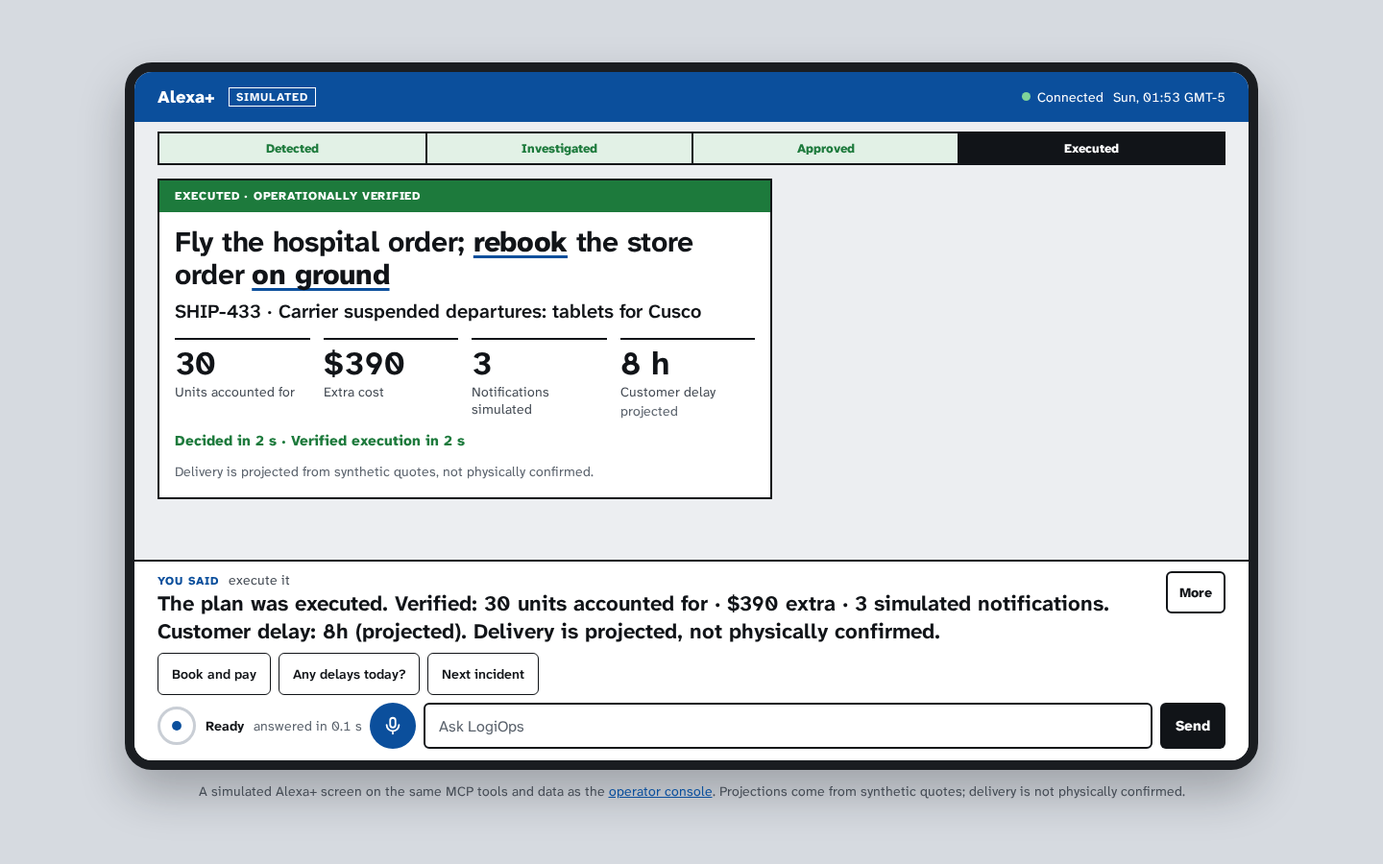
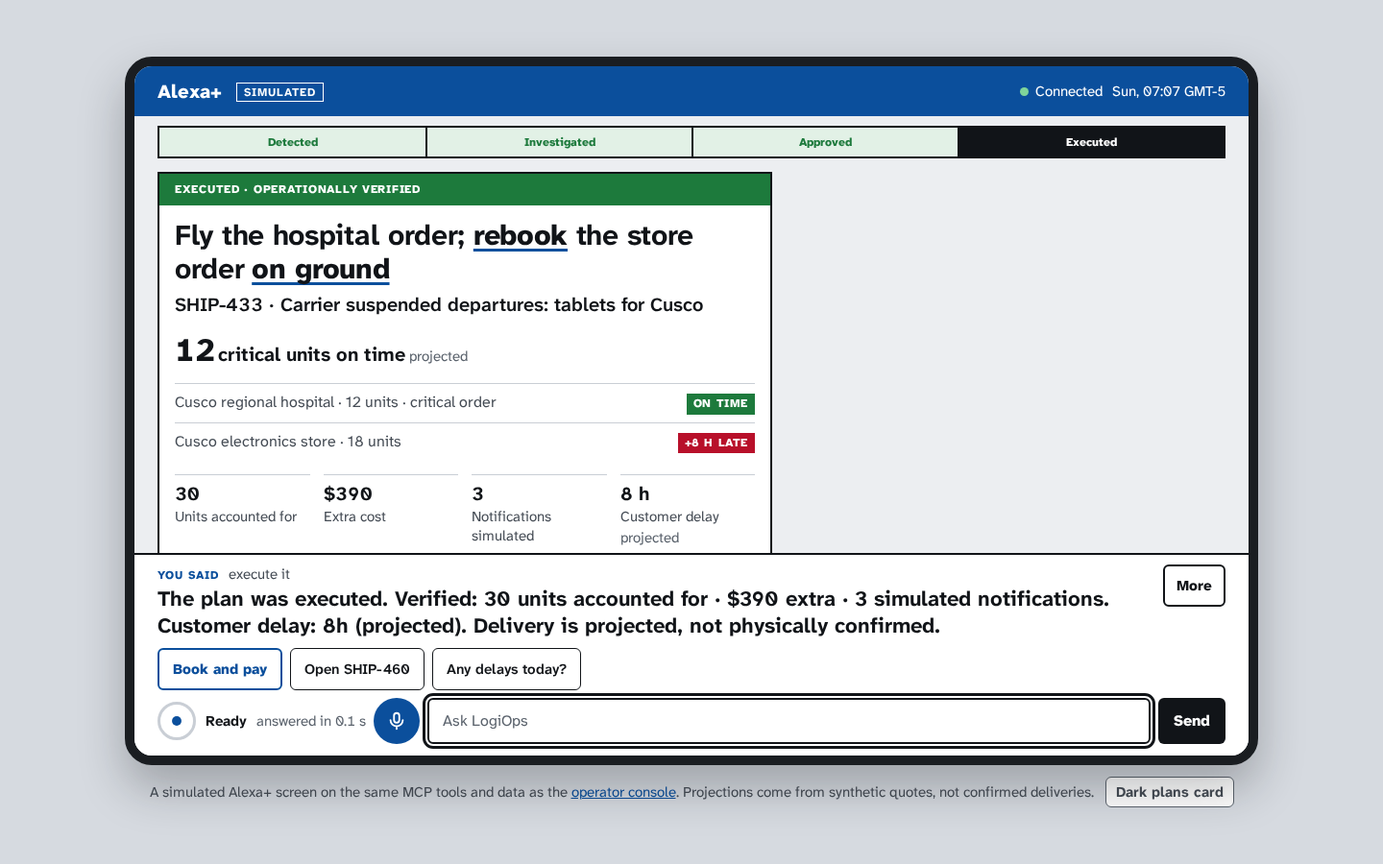
docs: refresh the screenshots and DESIGN.md after the critique fixes
- docs/img is regenerated with scripts/screenshots.py: the home queue
  under its heading, the result led by its outcome, the console's
  singular session labels and the stage-note toggle.
- DESIGN.md is refreshed from the shipped code:
  - the signal and scrim tokens;
  - the stat role and the console's own fixed ladder;
  - action chips and the second primary button (Execute approved plan);
  - the queue cards with their Executed tag;
  - the incident band that follows the decision;
  - the result and receipt cards;
  - the in-device conversation sheet with per-turn traces;
  - the MCP card's embedded font and look-alike-first list;
  - forced colours and the Echo Show type.

Changed region(s): [[0.0938, 0.0622, 0.9062, 0.9333], [0.4375, 0.4044, 0.5625, 0.5289]]

diff --git a/DESIGN.md b/DESIGN.md
@@ -23,6 +23,9 @@ colors:
   warn-ink: "#664400"
   warn-tint: "#FFF3D1"
   bezel: "#1A1D21"
+  signal-ok: "#7FD49A"
+  signal-late: "#FF9AA8"
+  scrim: "rgba(17, 20, 24, .5)"
   focus: "#111418"
 typography:
   display:
@@ -37,6 +40,12 @@ typography:
     fontWeight: 800
     lineHeight: 1.05
     letterSpacing: "-0.01em"
+    fontFeature: "tnum"
+  stat:
+    fontFamily: "Atkinson Hyperlegible Next, ui-sans-serif, system-ui, sans-serif"
+    fontSize: "20px"
+    fontWeight: 700
+    lineHeight: 1.15
     fontFeature: "tnum"
   title:
     fontFamily: "Atkinson Hyperlegible Next, ui-sans-serif, system-ui, sans-serif"
@@ -70,6 +79,27 @@ typography:
     fontWeight: 800
     lineHeight: 1.3
     letterSpacing: "0.05em"
+  console-heading:
+    fontFamily: "Atkinson Hyperlegible Next, ui-sans-serif, system-ui, sans-serif"
+    fontSize: "24px"
+    fontWeight: 700
+    lineHeight: 1.2
+  console-metric:
+    fontFamily: "Atkinson Hyperlegible Next, ui-sans-serif, system-ui, sans-serif"
+    fontSize: "21px"
+    fontWeight: 700
+    lineHeight: 1.2
+    fontFeature: "tnum"
+  console-body:
+    fontFamily: "Atkinson Hyperlegible Next, ui-sans-serif, system-ui, sans-serif"
+    fontSize: "15px"
+    fontWeight: 400
+    lineHeight: 1.55
+  console-meta:
+    fontFamily: "Atkinson Hyperlegible Next, ui-sans-serif, system-ui, sans-serif"
+    fontSize: "14px"
+    fontWeight: 400
+    lineHeight: 1.45
 rounded:
   label: "0px"
   control: "6px"
@@ -117,6 +147,15 @@ components:
     height: "44px"
   chip-hover:
     backgroundColor: "{colors.shell-tint}"
+  chip-action:
+    backgroundColor: "{colors.surface}"
+    textColor: "{colors.shell}"
+    typography: "{typography.meta}"
+    rounded: "{rounded.control}"
+    padding: "0 14px"
+    height: "44px"
+  chip-action-hover:
+    backgroundColor: "{colors.shell-tint}"
   input:
     backgroundColor: "{colors.surface}"
     textColor: "{colors.ink}"
@@ -158,18 +197,47 @@ components:
     typography: "{typography.tag}"
     rounded: "{rounded.label}"
     padding: "3px 7px"
+  tag-start-here:
+    backgroundColor: "{colors.shell}"
+    textColor: "{colors.shell-ink}"
+    typography: "{typography.tag}"
+    rounded: "{rounded.label}"
+    padding: "3px 7px"
+  tag-executed:
+    backgroundColor: "{colors.surface}"
+    textColor: "{colors.ok}"
+    typography: "{typography.tag}"
+    rounded: "{rounded.label}"
+    padding: "3px 7px"
   lifecycle-step-done:
     backgroundColor: "{colors.ok-tint}"
     textColor: "{colors.ok}"
+    typography: "{typography.tag}"
     rounded: "{rounded.label}"
   lifecycle-step-now:
     backgroundColor: "{colors.ink}"
     textColor: "{colors.surface}"
+    typography: "{typography.tag}"
     rounded: "{rounded.label}"
   shell-bar:
     backgroundColor: "{colors.shell}"
     textColor: "{colors.shell-ink}"
     height: "52px"
+  connection-dot-ok:
+    backgroundColor: "{colors.signal-ok}"
+    rounded: "{rounded.round}"
+    size: "9px"
+  connection-dot-late:
+    backgroundColor: "{colors.signal-late}"
+    rounded: "{rounded.round}"
+    size: "9px"
+  sheet-scrim:
+    backgroundColor: "{colors.scrim}"
+  sheet-panel:
+    backgroundColor: "{colors.surface}"
+    textColor: "{colors.ink}"
+    rounded: "{rounded.label}"
+    padding: "16px"
 ---
 
 # Design System: LogiOps AI
@@ -197,97 +265,106 @@ The world explicitly rejects the dark operations dashboard with a neon accent, a
 A cool, clinical neutral palette with one label-blue shell and three state colours that never decorate.
 
 ### Primary
-- **Label Blue** (shell): the device's shell bar, primary buttons, the mic, selected plans and cards, the start-here tag and agent-pick badge, the look-alike underline, links and the theme colour. It means "the product" or "act here", never a state.
-- **Deep Label Blue** (shell-deep): hover for primary buttons only.
+- **Label Blue** (shell): the device's shell bar, primary buttons (including "Execute approved plan"), the mic, the outline and text of action chips, selected plans, the start-here tag and agent-pick badge, the look-alike underline, links and the theme colour. It means "the product" or "act here", never a state.
+- **Deep Label Blue** (shell-deep): hover for primary buttons only, on the device, the console and the MCP App card's pick button.
 - **Blue Wash** (shell-tint): hover on incident cards and chips, the user's conversation turns, the current-plan line, the console boundary note.
 
 ### Secondary (state)
-- **Dispensed Green** (ok) with **Green Wash** (ok-tint): on time, executed, verified, done lifecycle steps, success messages.
+- **Dispensed Green** (ok) with **Green Wash** (ok-tint): on time, executed, verified, done lifecycle steps, the outlined Executed tag, success messages.
 - **Alert Red** (late) with **Red Wash** (late-tint): late, critical units at risk, approval invalidated, errors, the active mic.
-- **Caution Amber** (warn), **Amber Ink** (warn-ink) and **Amber Wash** (warn-tint): attention. Solid amber always carries ink text (the alerts bell, the critical tag, the warn band); amber washes always carry amber ink (the delayed-ETA fact, preference notes, the MCP App fallback note).
+- **Caution Amber** (warn), **Amber Ink** (warn-ink) and **Amber Wash** (warn-tint): attention. Solid amber always carries ink text (the alerts bell, the critical tag, the warn band, the connecting dot); amber washes always carry amber ink (the delayed-ETA fact, preference notes, the MCP App fallback note).
+- **Signal Green** (signal-ok) and **Signal Rose** (signal-late): the connected and failed states of the 9px connection dot on the shell bar, light enough to read on Label Blue. They exist only on the shell; everywhere on label stock the full-strength green and red carry state.
 
 ### Neutral
 - **Ink** (ink): text, rules, the current lifecycle step, the send button, focus rings.
 - **Graphite** (ink-2) and **Slate** (ink-3): secondary and tertiary text, labels inside facts, muted metadata.
-- **Hairline** (hairline): 1 px internal dividers between rows and facts, transcript turns, the idle orb ring.
-- **Label Stock** (surface): every card, panel, control and the talk dock.
+- **Hairline** (hairline): 1 px internal dividers between rows and facts, transcript turns, trace steps, the idle orb ring.
+- **Label Stock** (surface): every card, panel, control, the talk dock and the conversation sheet.
 - **Sunken** (sunken): secondary button hover, promise-bar track, code and table headers.
 - **Cool Ground** (ground): the page and device background.
 - **Desk Grey** (outer): the backdrop behind the Echo Show bezel on wide fine-pointer screens.
 - **Bezel** (bezel): the hardware frame of the simulated device, desktop only.
+- **Ink Scrim** (scrim): the half-ink veil behind the conversation sheet, inside the device.
 
 ### Named Rules
 **The Band Means State Rule.** Green, red and amber are state and nothing else. A full-width band at the top of a card names the card's condition in uppercase tag type; if nothing is wrong or done, there is no band.
 
-**The Self-Contained Card Rule.** The MCP App card renders in a sandboxed iframe and cannot load host files, so it carries its own copy of this palette (same hex values) plus a dark alternate that follows the host theme. Host-provided `--color-*`, `--font-*` and `--border-*` variables may override it; nothing else may.
+**The Self-Contained Card Rule.** The MCP App card renders in a sandboxed iframe and cannot load host files, so it carries its own copy of this palette (same hex values), its own copy of the size ladder as local variables, and its own Atkinson Hyperlegible Next, which the server inlines as a data: font that the sandbox policy allows; a dark alternate follows the host theme. Host-provided `--color-*`, `--font-*` and `--border-*` variables may override it; nothing else may.
 
 **Known exception: route mode colours.** The route diagram draws legs as a data series in mode colours outside the state palette: air #6A4BB5 (dotted), express #2F6FD6, delayed #A86F00 (dashed), clearance #8F6200, with local in ok and ground in shell. They are hard-coded in the device stylesheet and are marked for a future review; do not extend them to other components.
 
 ## Typography
 
-**Display Font:** Atkinson Hyperlegible Next (with ui-sans-serif, system-ui fallback), self-hosted variable woff2, weights 200 to 800, preloaded.
+**Display Font:** Atkinson Hyperlegible Next (with ui-sans-serif, system-ui fallback), self-hosted variable woff2, weights 200 to 800, preloaded. The MCP App card embeds the same file as a data: font.
 **Body Font:** the same family.
 
-**Character:** A single hyperlegible grotesque, chosen because it separates look-alike glyphs (0/O, 1/l/I). Weight does the hierarchy work: 800 for figures, tags and buttons, 700 for titles and the spoken line, 400 for running text. Font synthesis is off.
+**Character:** A single hyperlegible grotesque, chosen because it separates look-alike glyphs (0/O, 1/l/I). Weight does the hierarchy work: 800 for figures, tags and buttons, 700 for titles, stats and the spoken line, 400 for running text. Font synthesis is off.
 
 ### Hierarchy
 - **Display** (800, clamp(32px, 3.4vw, 44px), 1.1, -0.02em): the console page heading only.
-- **Figure** (800, clamp(28px, 2.6vw, 34px), 1.05, tabular): the one dominant number on a confirmation, receipt or result card. The MCP App card's pick cost uses the same role at 30px (26px compact).
-- **Title** (700, clamp(22px, 2.4vw, 30px), 1.15, -0.01em): the card heading on the device.
+- **Figure** (800, clamp(28px, 2.6vw, 34px), 1.05, tabular): the one dominant number on a confirmation, receipt or result card. The MCP App card's pick cost uses the same role, with tabular slashed-zero numerals.
+- **Title** (700, clamp(22px, 2.4vw, 30px), 1.15, -0.01em): the card heading on the device, the home heading ("4 open incidents") and the plans heading.
+- **Stat** (700, 20px, tabular): secondary numbers that sit below the one Figure: incident ids in queue cards (800), fact values, the session strip, plan figures, the result card's four execution numbers, and the conversation sheet heading.
 - **Spoken** (700, clamp(18px, 1.6vw, 22px), 1.3): the assistant's spoken line in the dock, clamped to two lines with a More button.
-- **Lead** (600, clamp(17px, 1.5vw, 20px), 1.4): the sentence under a card title.
-- **Body** (400, 16px, 1.5; 15px from 768px): incident text, rows, plan names, transcript.
-- **Meta** (400, 15px; 14px from 768px): secondary lines, fact labels, legends, chips.
-- **Tag** (800, 12px, 0.05 to 0.08em, uppercase): state bands, outcome chips, incident tags, badges, the "simulated" stamp, speaker names.
+- **Lead** (600, clamp(17px, 1.5vw, 20px), 1.4): the sentence under a card title, queue-card text from 768px, the result figure's label.
+- **Body** (400, 16px, 1.5): incident text, rows, plan names, transcript, the home greeting.
+- **Meta** (400, 15px): secondary lines, fact labels, legends, chips, trace summaries.
+- **Tag** (800, 12px, 0.05 to 0.08em, uppercase): state bands, outcome chips, incident tags, badges, the "simulated" stamp, speaker names. The lifecycle strip uses the tag size in sentence case.
 
-The console uses the same family and weights at fixed desk sizes (24px panel headings, 21px metrics, 15px body, 14px meta, 12px tags) because it keeps its own layout.
+Between 768px and the Echo Show, body steps down to 15px and meta to 14px for denser desk reading; on the Echo Show (1024px and a fine pointer) they return to 16px and 15px, and phones keep them there too. The MCP App card mirrors the ladder locally: 15px body and 14px meta by default, 16px and 15px in its compact mode.
+
+The console uses the same family and weights at its own fixed desk sizes, recorded as the console roles: 24px panel headings, 21px metrics, 15px body, 14px meta, and the shared 12px tag. They are the console's ladder, not nudges of the device ladder.
 
 ### Named Rules
-**The Ladder Rule.** Device sizes come from the eight ladder tokens. A new size needs a new role, not a nudge.
+**The Ladder Rule.** Device sizes come from the eight ladder tokens (tag, meta, body, lead, stat, title, figure, spoken). A new size needs a new role, not a nudge.
 
 **The Tabular Column Rule.** Every compared figure (costs, ETAs, units, counts, receipt lines) uses tabular numerals and sits right-aligned in its own column; on the 768px facts row it switches to left-aligned columns.
 
 ## Layout
 
-Mobile first. On a phone the device fills the viewport as a column: a 52px shell bar (safe-area aware), a four-step lifecycle strip with a 10px top margin, a scrolling card surface, and a fixed talk dock with a 2px ink top rule holding the heard line, the two-line spoken line, one horizontally scrolling row of chips, and the orb, 48px mic, field and send. Side gutters are 16px plus safe-area insets. One card shows at a time.
+Mobile first. On a phone the device fills the viewport as a column: a 52px shell bar (safe-area aware), a four-step lifecycle strip with a 10px top margin, a scrolling card surface, and a fixed talk dock with a 2px ink top rule holding the heard line, the two-line spoken line, one horizontally scrolling row of chips, and the orb, 48px mic, field and send. Side gutters are 16px plus safe-area insets. One card shows at a time. Under 400px the lifecycle cells size to their content instead of splitting the width equally.
 
-From 768px the gutter becomes 24px, meta and body step down a pixel (more room, denser desk reading), facts sit in a three-column row, the incident sets its promise bars beside a route-map label column of up to 380px, the plan row becomes name, figures, select, and result figures go to four columns. From 1024px with a fine pointer the device becomes a 16:10 Echo Show at up to 1180px wide inside a 10px bezel with 28px corners, centred on Desk Grey with a note underneath. Short landscape screens hide the lifecycle and heard line and clamp the spoken line to one.
+Home is a stacked queue: a Title heading ("4 open incidents") and a one-line greeting, then an ordered list of incident cards, one column on phones 10px apart and two columns from 768px 12px apart, then the session strip of outcome stats (two columns on phones, wrapping 130px tiles from 768px).
 
-The inbox is a stacked queue under a one-line heading ("4 open incidents"): one column of incident cards on phones, 10px apart, and two columns from 768px, 12px apart, with the briefing's pick first and executed incidents last. The console is a 1500px shell with 32px padding (16px under 650px): a four-column inbox, a summary strip, and a 1.65 : 0.85 workbench that stacks under 1050px.
+From 768px the gutter becomes 24px, facts sit in a three-column row, the incident sets its promise bars beside a route-map label column of up to 380px, the plan row becomes name, figures, select, and the result card's four stats go to four columns. From 1024px with a fine pointer the device becomes a 16:10 Echo Show at up to 1180px wide inside a 10px bezel with 28px corners, centred on Desk Grey with a stage note underneath that carries the console link and the "Dark plans card" developer toggle. Short landscape screens hide the lifecycle and heard line and clamp the spoken line to one.
+
+The console is a 1500px shell with 32px padding (16px under 650px): a four-column inbox (two under 1050px, one under 650px), a summary strip, and a 1.65 : 0.85 workbench that stacks under 1050px.
 
 Spacing is a loose 2px-step rhythm around 8, 12, 14 and 16px inside cards and 18 to 24px between panels. Touch targets are 44px minimum, 48px for the dock's primary controls.
 
 ## Elevation & Depth
 
-The screen is flat. Depth is conveyed by tone (label stock on cool ground), 2px ink rules around every label, and the shell band; nothing floats. The only overlay is the conversation sheet, which rises from the bottom over a 50% ink scrim and is flat itself.
+The screen is flat. Depth is conveyed by tone (label stock on cool ground), 2px ink rules around every label, and the shell band; nothing floats. The only overlay is the conversation sheet, which lives inside the device (within the bezel on desktop) over the Ink Scrim and is flat itself; while it is open the rest of the device and the stage note are inert.
 
 ### Shadow Vocabulary
 - **Hardware bezel** (`box-shadow: 0 24px 48px rgba(17, 20, 24, .28)`): the Echo Show frame on wide fine-pointer screens only. It belongs to the device hardware, not to the interface.
-- **Selection ring** (`box-shadow: inset 0 0 0 2px var(--shell)`): thickens a selected plan's or pressed incident card's border to 4px of blue. It is a border, not elevation.
+- **Selection ring** (`box-shadow: inset 0 0 0 2px var(--shell)`): thickens a selected plan's or pressed console incident card's border to 4px of blue. It is a border, not elevation.
 
 ### Named Rules
 **The Flat Screen Rule.** Nothing inside the device screen, the console or the MCP App card casts a shadow, carries a gradient or glows. The bezel is the hardware exception.
 
 ## Shapes
 
-Two corner families and one circle. Labels (cards, panels, bands, facts, lifecycle, transcript turns, tags, chips that report outcomes) are square (0). Controls a finger presses (buttons, input fields, suggestion chips, the alerts bell, file buttons) take a gentle 6px. Circles are reserved for the mic, the orb and the connection dot. Structural edges are 2px ink; internal dividers between rows are 1px hairline; outlined tags and the "simulated" stamp use 1.5px. Empty states and the console's developer panel use a 2px dashed hairline.
+Two corner families and one circle. Labels (cards, panels, bands, facts, lifecycle, transcript turns, trace steps, the sheet, tags, chips that report outcomes) are square (0). Controls a finger presses (buttons, input fields, suggestion and action chips, the alerts bell, the account button, file buttons) take a gentle 6px. Circles are reserved for the mic, the orb and the connection dot. Structural edges are 2px ink; internal dividers between rows are 1px hairline; outlined tags and the "simulated" stamp use 1.5px; action chips use a 2px Label Blue outline. Empty states and the console's developer panel use a 2px dashed hairline.
 
 ## Components
 
 ### Buttons
 Firm, square-shouldered, heavy-weight text.
 - **Shape:** gently rounded (6px), 2px border, 48px tall on the device (44px on the console and inside the MCP App card unless compact).
-- **Primary:** Label Blue fill, white 800-weight text, 18px side padding. One per card: the "yes".
-- **Hover / Focus:** primary deepens to Deep Label Blue; secondary and plan Select take the Sunken fill. Focus is a 3px ink outline at 2px offset (white on the shell bar). Disabled drops to 45% opacity.
-- **Secondary:** label stock with a 2px ink border; used for No, Close, Select and console actions.
+- **Primary:** Label Blue fill, white 800-weight text, 18px side padding. One per card: the "yes", or "Execute approved plan" in the plans header and on a receipt when the plan is approved but has not run.
+- **Hover / Focus:** primary deepens to Deep Label Blue; secondary and plan Select take the Sunken fill. Focus is a 3px ink outline at 2px offset (white on the shell bar, inset on the scrolling surface). Disabled drops to 45% opacity.
+- **Secondary:** label stock with a 2px ink border; used for No, Close, Select, More, "Open printable receipt", "See N more plans" and console actions.
 - **Send:** solid ink with white text, sitting at the end of the dock.
 - **Mic:** 48px Label Blue circle with a stroked SVG microphone; turns Alert Red while listening.
 - **Quiet:** text-only Graphite, underline on hover, for secondary console actions.
+- **Stage toggle:** the "Dark plans card" developer switch in the desktop stage note, 32px, 1.5px slate outline, filled ink when pressed.
 
 ### Chips
-- **Suggestion chips:** label stock, 1.5px ink border, 6px radius, 44px tall, Meta type; one scrolling row in the dock, wrapping on the console. Hover shifts the border to Label Blue over Blue Wash.
-- **Outcome chips:** square, solid green or red, white uppercase tag type; one per order row ("on time", "+18 h").
-- **Incident tags:** square uppercase tags: start here (blue), at risk (red), critical (amber with ink), state (1.5px slate outline).
+- **Question chips:** label stock, 1.5px ink border, 6px radius, 44px tall, Meta type at 600; one scrolling row in the dock, wrapping on the console. Hover shifts the border to Label Blue over Blue Wash.
+- **Action chips:** the chips that act rather than ask (approve the recommended plan, approve the new pick, book and pay) take a 2px Label Blue outline and Label Blue 800 text, so a tap that changes state never looks like a question.
+- **Outcome chips:** square, solid green or red, white uppercase tag type; one per order row ("on time", "+8 h late").
+- **Incident tags:** square uppercase tags, at most two per card: start here (blue), critical units at risk (red), critical order (amber with ink), and the investigated or approved state as words in a 1.5px slate outline. An executed incident shows only the Executed tag, a 1.5px green outline with green text, which outranks start here.
 - **Badges:** agent pick and zero delay in blue; "your preference" in Amber Wash with Amber Ink.
 
 ### Cards / Containers
@@ -295,7 +372,8 @@ Firm, square-shouldered, heavy-weight text.
 - **Background:** Label Stock on Cool Ground.
 - **Shadow Strategy:** none (see Elevation & Depth).
 - **Border:** 2px ink.
-- **Internal Padding:** 14 to 16px on the device (18px for inbox cards from 768px), 24px for console panels (18px under 650px).
+- **Internal Padding:** 14 to 16px on the device (18px for queue cards from 768px), 24px for console panels (18px under 650px).
+- **Queue cards:** whole-card buttons with the incident id at Stat size, up to two tags, the incident text and a meta line; hover takes Blue Wash.
 
 ### Inputs / Fields
 - **Style:** label stock, 2px ink border, 6px radius, 48px tall in the dock (44px on the console), 16px text on phones to avoid zoom.
@@ -303,23 +381,35 @@ Firm, square-shouldered, heavy-weight text.
 - **Checkboxes and radios:** native, 18 to 20px, accent Label Blue.
 
 ### Navigation
-- **Shell bar:** Label Blue, white text, 52px (44px in short landscape). The wordmark is 800 weight with an outlined uppercase "simulated" stamp. Right side: the amber alerts bell, the account button (outlined white, filled white when signed in), the connection state with a 9px dot, and a tabular clock from 768px.
+- **Shell bar:** Label Blue, white text, 52px (44px in short landscape). The wordmark is 800 weight with an outlined uppercase "simulated" stamp. Right side: the amber alerts bell, the account button (outlined white, filled white when signed in), the connection state with a 9px dot (amber connecting, Signal Green connected, Signal Rose failed), and a tabular clock from 768px.
 - **Console top bar:** 68px, separated by a 2px ink rule, a square blue monogram mark and Label Blue text links.
 
 ### State Band (signature)
-A full-bleed strip at the top of a card, padded 8px 16px, uppercase tag type with 0.06em tracking: green for executed or receipt, red for critical units at risk or invalidated approval, amber with ink for a proactive alert where nothing is approved yet.
+A strip at the top of a card, padded 8px 16px, uppercase tag type with 0.06em tracking. On confirmation, receipt, alert and result cards it bleeds to the card edges; on the incident it sits as its own strip above the heading. Green for a receipt or a verified execution; red for critical units at risk, a late plan or an invalidated approval; amber with ink for a proactive alert where nothing is approved yet. On the incident the band follows the decision: amber "Approved · N critical units projected on time once executed" while an on-time plan waits to run, green "Executed · …" once it has run on time, red whenever the decided plan leaves units late or nothing is decided and critical units are at risk.
 
 ### Lifecycle Strip (signature)
-Detected, Investigated, Approved, Executed in four equal cells inside a 2px ink frame with 2px ink dividers. Done steps are Green Wash with green text, the current step is solid ink with white text, future steps are slate. It sits at the same place and scale on every incident.
+Detected, Investigated, Approved, Executed in four cells inside a 2px ink frame with 2px ink dividers, in 800-weight tag-size type. Done steps are Green Wash with green text, the current step is solid ink with white text, future steps are slate. It sits at the same place and scale on every incident.
 
 ### Look-Alike Guard (signature)
-Wherever plan names appear together (plan list, current-plan line, confirmation lead, result heading, MCP App card), each name is compared word by word with its nearest neighbour. When two names share at least two words and at least half of the name without being identical, the words that differ are set in 800 weight with a 3px Label Blue underline offset 4px. Otherwise the name stands plain.
+Wherever plan names appear together (plan list, current-plan line, confirmation lead, alert plan lines, result heading, MCP App card), each name is compared word by word with its nearest neighbour. When two names share at least two words and at least half of the name without being identical, the words that differ are set in 800 weight with a 3px Label Blue underline offset 4px. Otherwise the name stands plain.
 
 ### Facts and Promise Bars
-Incident facts are a stacked list (three columns from 768px) with label, tabular value and note; the delayed ETA fact is Amber Wash with Amber Ink. Each order's promise is a 12px Sunken track with a 1px ink zero line, filled red in proportion to its delay, under the customer line and above a green or red verdict.
+Incident facts are a stacked list (three columns from 768px) with label, a Stat-size tabular value and note; the delayed ETA fact is Amber Wash with Amber Ink. Each late order's promise is a 12px Sunken track with a 1px ink zero line, filled red in proportion to its delay, under the customer line and above a red verdict. On-time orders hide the empty track and keep only the green verdict.
+
+### Result and Receipt Cards
+The result card opens with the green "Executed · operationally verified" band, the plan name as the Title, and the incident as the lead. It then carries one Figure ("12 critical units on time", with the label at Lead size and a slate "projected"), followed by order rows that end in outcome chips. The four execution numbers (units accounted for, extra cost, notifications simulated, customer delay) follow as Stat-size secondary figures over hairline rules. The receipt shows the paid total as its Figure, then rows that start with the "Carriers and services" subtotal and indent its paid lines beneath it in slate Meta type without a rule, then fees, and a total row in 800 weight over a 2px ink rule.
+
+### Conversation Sheet
+A dialog inside the device: bottom-anchored with a 2px ink top rule on phones, a centred 2px-ink-framed panel up to 860px wide from 768px. Its heading is Stat size beside the read-aloud toggle and a secondary Close. Each assistant reply carries its own tool trace as a disclosure under it: a hairline rule, a 700 Meta summary, and square hairline step tiles (green for a skill, red for an error) that rise in on a 120ms stagger.
+
+### MCP App Card
+The plan picker as an MCP App, self-contained (see The Self-Contained Card Rule). The pick leads with a green or red state band, the name at Lead size with up to two tags (agent or default pick outlined in blue, approved or executed outlined in green, your preference in Amber Wash), the cost as the Figure, order outcomes as chips, and a primary "Select for approval" button until a plan is approved. The remaining plans follow with the pick's nearest look-alike first; in compact mode only that one shows, with a "See N more plans" button for the rest. All figures use tabular slashed-zero numerals.
 
 ### Talk Dock and Orb
 The dock is label stock under a 2px ink rule. The orb is a 40px circle with a 3px hairline ring and a blue core that pulses while listening or speaking and spins its ring while thinking, on cubic-bezier(.16, 1, .3, 1). All motion stops under reduced motion.
+
+### Forced Colours
+Under forced colours the current lifecycle step takes Highlight with HighlightText, done steps are underlined, the promise fill becomes CanvasText, and state bands, outcome chips, incident tags and action chips gain a 1px system border so no state rides on colour alone.
 
 ## Do's and Don'ts
 
@@ -328,13 +418,15 @@ The dock is label stock under a 2px ink rule. The orb is a 40px circle with a 3p
 - **Do** use a full-width state band only when the card has a real state: ok, late or warn.
 - **Do** emphasise the distinguishing words with the look-alike guard wherever two or more plan names can be seen together.
 - **Do** set every compared number in tabular figures in a right-aligned column.
-- **Do** keep one dominant figure per card at the Figure size.
+- **Do** keep one dominant figure per card at the Figure size; supporting numbers take the Stat size.
 - **Do** pair solid amber with ink text and amber washes with Amber Ink.
-- **Do** mirror palette changes into the MCP App card's own light values and its dark alternate.
+- **Do** give chips that change state the 2px Label Blue outline; questions keep the 1.5px ink border.
+- **Do** mirror palette and ladder changes into the MCP App card's own light values, its dark alternate and its local size variables.
 
 ### Don't:
 - **Don't** cast shadows, add gradients or glow on any screen surface; the bezel shadow is hardware only.
 - **Don't** use green, red or amber for decoration, branding or emphasis that is not a state.
+- **Don't** use Signal Green or Signal Rose anywhere but the shell bar.
 - **Don't** round a label; only pressable controls take the 6px radius, and only the mic, orb and status dot are circles.
 - **Don't** add an uppercase line above a heading unless it is a state band carrying a real state.
 - **Don't** introduce a size off the ladder or a second typeface.
